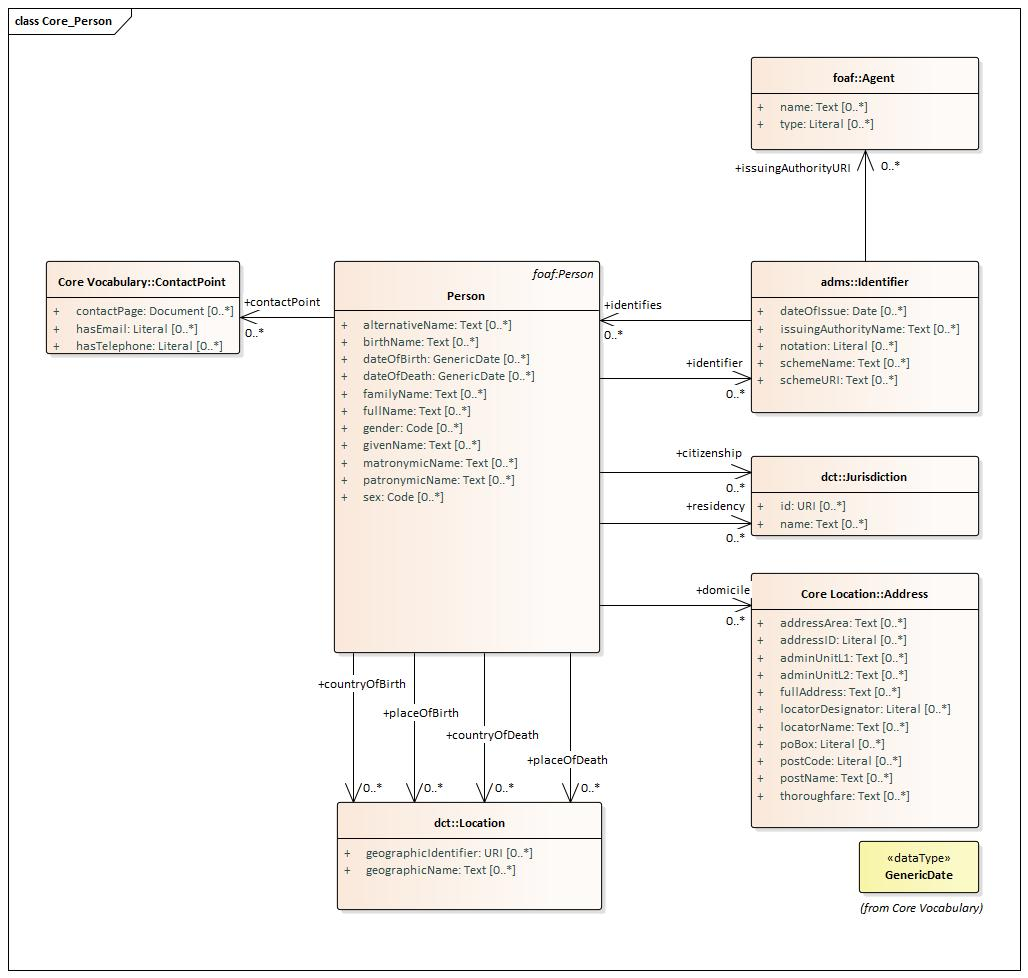
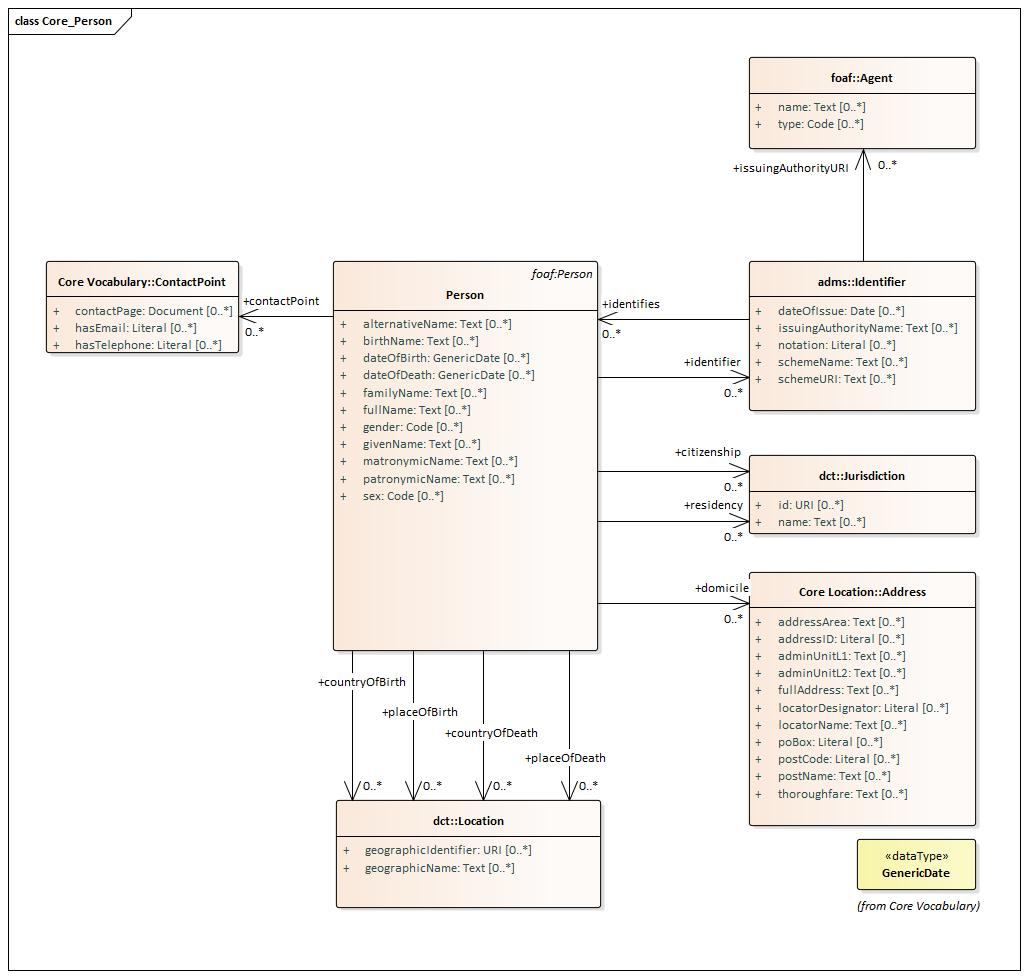
corrected the errors in the prep

diff --git a/releases/2.1.0/index.html b/releases/2.1.0/index.html
@@ -199,7 +199,7 @@
 <a href="https://github.com/SEMICeu/Core-Person-Vocabulary/tree/master/releases/2.1.0">https://github.com/SEMICeu/Core-Person-Vocabulary/tree/master/releases/2.1.0</a>
 
               </dd>
-              <!--<dt>Changelog</dt><dd><a href="git@uri.semic.eu-thema:SEMICeu/uri.semic.eu-thema.git/blob/5821eb3a61d4a970713558cce542c0575c2bcd2f/CHANGELOG">git@uri.semic.eu-thema:SEMICeu/uri.semic.eu-thema.git/blob/5821eb3a61d4a970713558cce542c0575c2bcd2f/CHANGELOG</a></dd>-->
+              <!--<dt>Changelog</dt><dd><a href="git@uri.semic.eu-thema:SEMICeu/uri.semic.eu-thema.git/blob/223c71a1830b062bb33373e3fcc6f962e935643e/CHANGELOG">git@uri.semic.eu-thema:SEMICeu/uri.semic.eu-thema.git/blob/223c71a1830b062bb33373e3fcc6f962e935643e/CHANGELOG</a></dd>-->
               <dt>Feedback</dt><dd><a href="https://github.com/SEMICeu/Core-Person-Vocabulary/issues">https://github.com/SEMICeu/Core-Person-Vocabulary/issues</a></dd>
               <!--<dt>Registry of standards</dt><dd><a href="Core-Person-Vocabulary">Core-Person-Vocabulary</a></dd>-->
 
@@ -644,7 +644,7 @@ The key difference between a locator and a locator name is that the latter is a 
                         <td>
                           
 			     
-			    <a href="http://www.w3.org/2000/01/rdf-schema#Literal" data-toggle="tooltip" data-content="http://www.w3.org/2000/01/rdf-schema#Literal" data-placement="right">Literal</a>
+			    <a href="http://www.w3.org/2004/02/skos/core#Concept" data-toggle="tooltip" data-content="http://www.w3.org/2004/02/skos/core#Concept" data-placement="right">Code</a>
                             
                           
                         </td>

diff --git a/releases/2.1.0/index_en.html b/releases/2.1.0/index_en.html
@@ -199,7 +199,7 @@
 <a href="https://github.com/SEMICeu/Core-Person-Vocabulary/tree/master/releases/2.1.0">https://github.com/SEMICeu/Core-Person-Vocabulary/tree/master/releases/2.1.0</a>
 
               </dd>
-              <!--<dt>Changelog</dt><dd><a href="git@uri.semic.eu-thema:SEMICeu/uri.semic.eu-thema.git/blob/5821eb3a61d4a970713558cce542c0575c2bcd2f/CHANGELOG">git@uri.semic.eu-thema:SEMICeu/uri.semic.eu-thema.git/blob/5821eb3a61d4a970713558cce542c0575c2bcd2f/CHANGELOG</a></dd>-->
+              <!--<dt>Changelog</dt><dd><a href="git@uri.semic.eu-thema:SEMICeu/uri.semic.eu-thema.git/blob/223c71a1830b062bb33373e3fcc6f962e935643e/CHANGELOG">git@uri.semic.eu-thema:SEMICeu/uri.semic.eu-thema.git/blob/223c71a1830b062bb33373e3fcc6f962e935643e/CHANGELOG</a></dd>-->
               <dt>Feedback</dt><dd><a href="https://github.com/SEMICeu/Core-Person-Vocabulary/issues">https://github.com/SEMICeu/Core-Person-Vocabulary/issues</a></dd>
               <!--<dt>Registry of standards</dt><dd><a href="Core-Person-Vocabulary">Core-Person-Vocabulary</a></dd>-->
 
@@ -644,7 +644,7 @@ The key difference between a locator and a locator name is that the latter is a 
                         <td>
                           
 			     
-			    <a href="http://www.w3.org/2000/01/rdf-schema#Literal" data-toggle="tooltip" data-content="http://www.w3.org/2000/01/rdf-schema#Literal" data-placement="right">Literal</a>
+			    <a href="http://www.w3.org/2004/02/skos/core#Concept" data-toggle="tooltip" data-content="http://www.w3.org/2004/02/skos/core#Concept" data-placement="right">Code</a>
                             
                           
                         </td>
